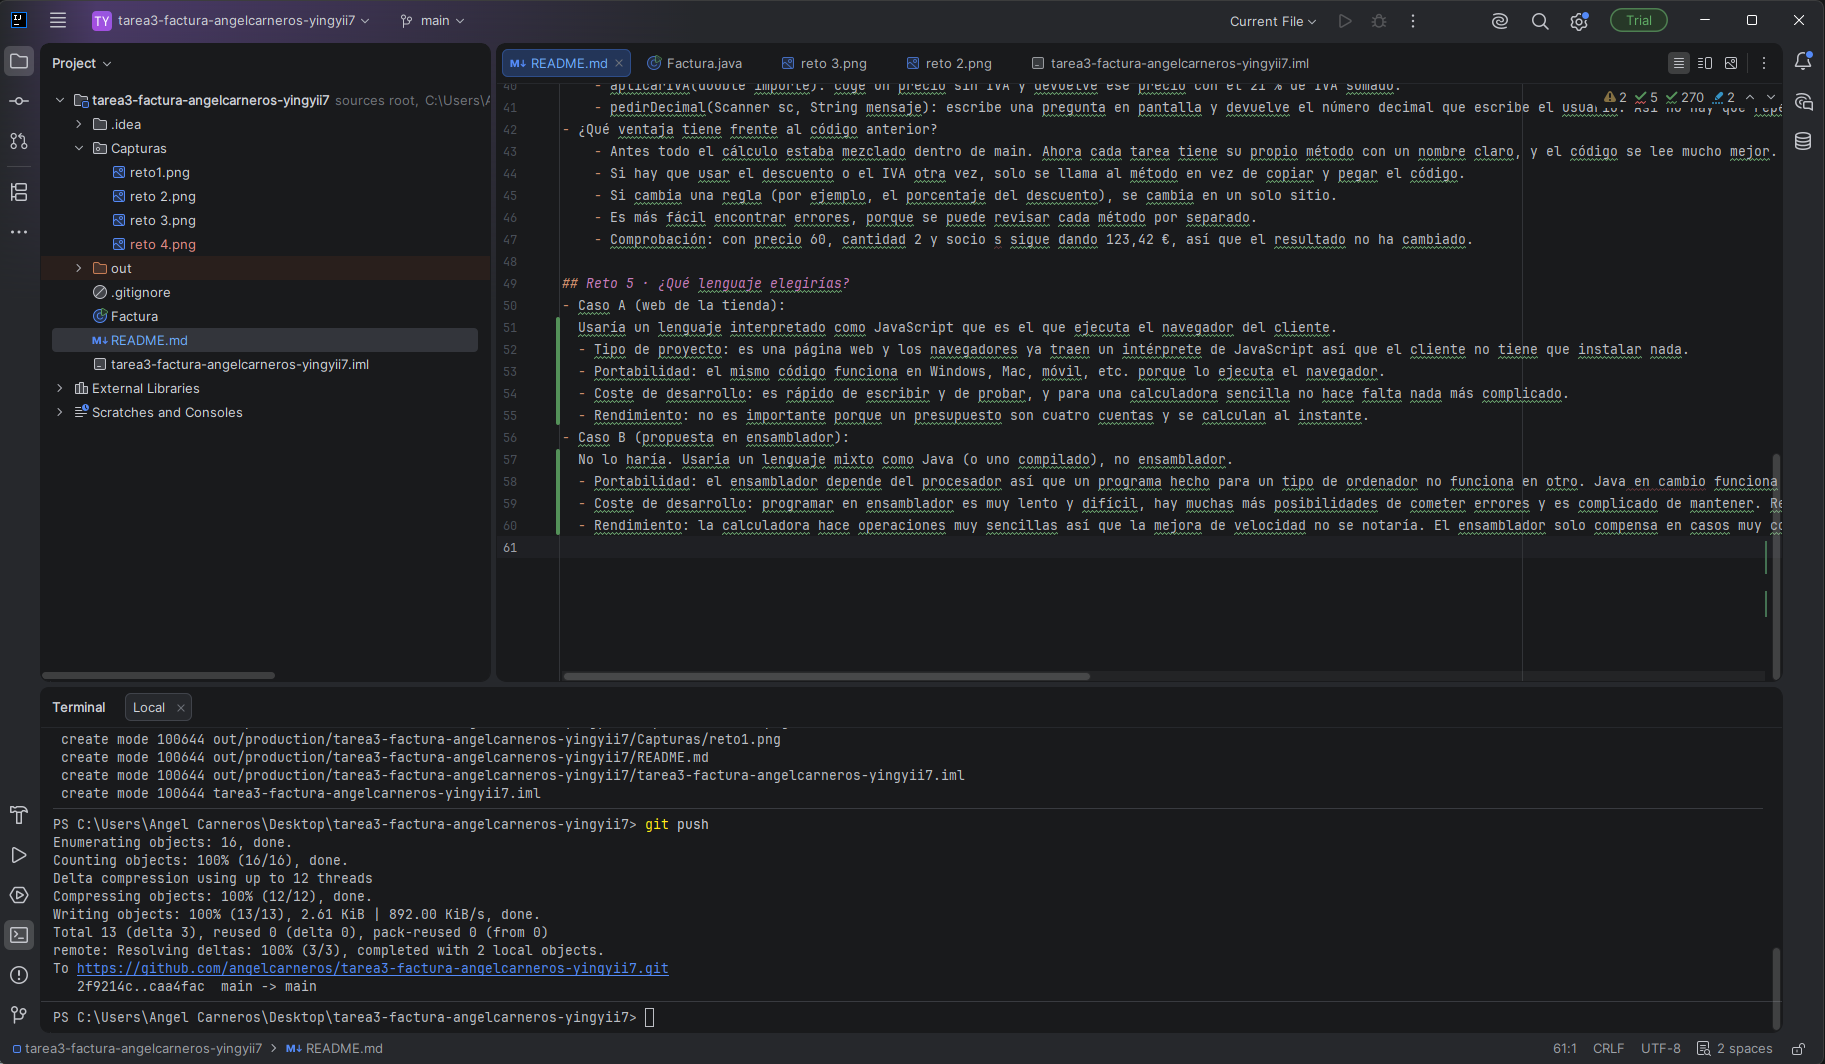
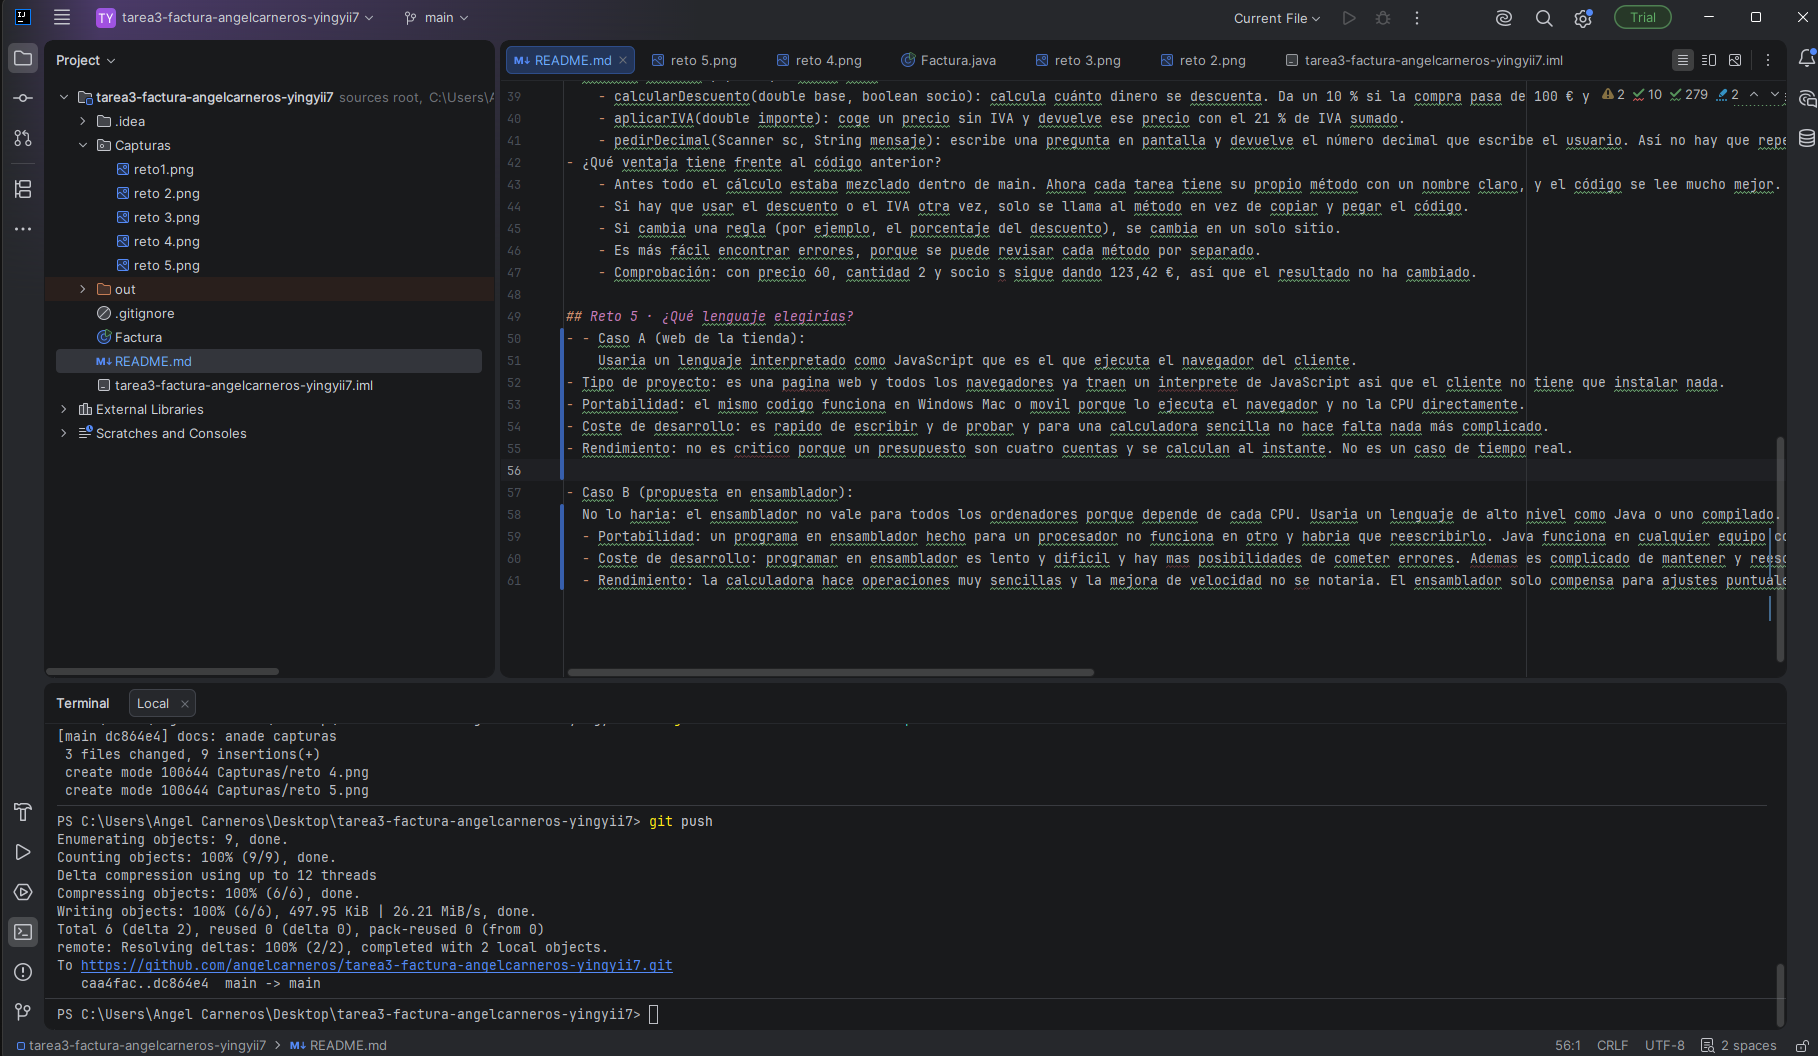
fix (criterios diap. 8) docs: reto 5 eleccion de lenguaje

Changed region(s): [[0.0, 0.0, 1.0, 0.625], [0.0, 0.625, 0.5237, 1.0], [0.8625, 0.9062, 1.0, 1.0]]

diff --git a/README.md b/README.md
@@ -47,14 +47,15 @@ Captura del depurador: capturas/reto3.png
     - Comprobación: con precio 60, cantidad 2 y socio s sigue dando 123,42 €, así que el resultado no ha cambiado.
 
 ## Reto 5 · ¿Qué lenguaje elegirías?
-- Caso A (web de la tienda):
-  Usaría un lenguaje interpretado como JavaScript que es el que ejecuta el navegador del cliente.
-  - Tipo de proyecto: es una página web y los navegadores ya traen un intérprete de JavaScript así que el cliente no tiene que instalar nada.
-  - Portabilidad: el mismo código funciona en Windows, Mac, móvil, etc. porque lo ejecuta el navegador.
-  - Coste de desarrollo: es rápido de escribir y de probar, y para una calculadora sencilla no hace falta nada más complicado.
-  - Rendimiento: no es importante porque un presupuesto son cuatro cuentas y se calculan al instante.
+- - Caso A (web de la tienda):
+    Usaria un lenguaje interpretado como JavaScript que es el que ejecuta el navegador del cliente.
+- Tipo de proyecto: es una pagina web y todos los navegadores ya traen un interprete de JavaScript asi que el cliente no tiene que instalar nada.
+- Portabilidad: el mismo codigo funciona en Windows Mac o movil porque lo ejecuta el navegador y no la CPU directamente.
+- Coste de desarrollo: es rapido de escribir y de probar y para una calculadora sencilla no hace falta nada más complicado.
+- Rendimiento: no es critico porque un presupuesto son cuatro cuentas y se calculan al instante. No es un caso de tiempo real.
+
 - Caso B (propuesta en ensamblador):
-  No lo haría. Usaría un lenguaje mixto como Java (o uno compilado), no ensamblador.
-  - Portabilidad: el ensamblador depende del procesador así que un programa hecho para un tipo de ordenador no funciona en otro. Java en cambio funciona en cualquiera que tenga la maquina virtual de Java.
-  - Coste de desarrollo: programar en ensamblador es muy lento y difícil, hay muchas más posibilidades de cometer errores y es complicado de mantener. Reescribir toda la calculadora costaría mucho tiempo.
-  - Rendimiento: la calculadora hace operaciones muy sencillas así que la mejora de velocidad no se notaría. El ensamblador solo compensa en casos muy concretos.
+  No lo haria: el ensamblador no vale para todos los ordenadores porque depende de cada CPU. Usaria un lenguaje de alto nivel como Java o uno compilado.
+  - Portabilidad: un programa en ensamblador hecho para un procesador no funciona en otro y habria que reescribirlo. Java funciona en cualquier equipo con la maquina virtual de Java.
+  - Coste de desarrollo: programar en ensamblador es lento y dificil y hay mas posibilidades de cometer errores. Ademas es complicado de mantener y reescribir toda la calculadora costaria mucho tiempo.
+  - Rendimiento: la calculadora hace operaciones muy sencillas y la mejora de velocidad no se notaria. El ensamblador solo compensa para ajustes puntuales en casos muy concretos y no para reescribir un programa entero.
